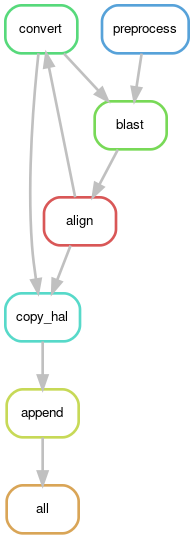
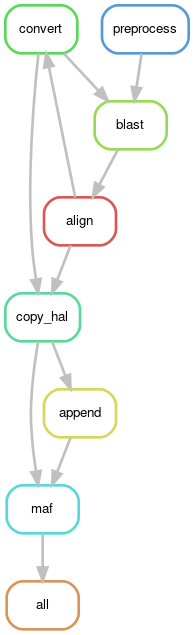
adding info about outputs to cactus tutorial, updating some things about the config file since i added the maf rule

Changed region(s): [[0.0, 0.0, 0.9897, 1.0]]

diff --git a/docs/resources/Tutorials/whole-genome-alignment-cactus.md b/docs/resources/Tutorials/whole-genome-alignment-cactus.md
@@ -92,6 +92,7 @@ To run this pipeline, you will need:
 
 1. A [**rooted**](#3-how-can-i-tell-if-my-input-newick-tree-is-rooted) phylogenetic tree of all species to align, with or without branch lengths, in [Newick format](https://en.wikipedia.org/wiki/Newick_format).
 2. The [**softmasked**](#4-how-can-i-tell-if-my-genome-fasta-files-are-softmasked) genome [FASTA](https://en.wikipedia.org/wiki/FASTA_format) files for each species.
+3. A reference genome to project the alignment to MAF format.
 
 You will use these to create the input file for Cactus.
 
@@ -120,6 +121,9 @@ E   seqdir/e.fa
 
 For more information about the Cactus input file, see their [official documentation](https://github.com/ComparativeGenomicsToolkit/cactus/blob/master/doc/progressive.md#interface). There is also an example input file for a small test dataset [here](https://github.com/harvardinformatics/cactus-snakemake/blob/main/tests/evolverMammals/evolverMammals.txt) or at `tests/evolverMammals/evolverMammals.txt`. For more info, see section: [Test dataset](#test-dataset).
 
+### Reference sample
+
+In order to run the last step of the workflow that converts the HAL format to a readable MAF format (See [pipeline outputs](#pipeline-outputs) for more info), you will need to select one assembly as a reference assembly. The reference assembly's coordinate system will be used for projection to MAF format. You should indicate the reference assembly in the Snakemake config file (outlined below). For instance, if I wanted my reference sample in the above file to be **C**, I would put the string `C` in the `maf_reference:` line of the Snakemake config file.
 
 ### Preparing the Snakemake config file
 
@@ -140,7 +144,9 @@ output_dir: <path/to/desired/output-directory>
 
 overwrite_output_dir: <True/False>
 
-final_hal: <desired name of final .hal file with all genomes appended>
+final_prefix: <desired name of final .hal and .maf files with all genomes appended>
+
+maf_reference: <Genome ID from input_file>
 
 tmp_dir: <path/to/tmp-dir/>
 
@@ -149,15 +155,15 @@ use_gpu: <True/False>
 
 Simply replace the string surrounded by <> with the path or option desired. Below is a table summarizing these options:
 
-| Option               | Description                                                                 |
-|----------------------|-----------------------------------------------------------------------------|
-| `cactus_path`        | Path to the Cactus Singularity image. If blank or 'download', the image of the latest Cactus version will be downloaded and used. |
-| `input_file`         | Path to the input file containing the species tree and genome paths (described above). |
-| `output_dir`         | Directory where the all output will be written. |
+| Option                 | Description                                                                 |
+|----------------------- | ----------------------------------------------------------------------------|
+| `cactus_path`          | Path to the Cactus Singularity image. If blank or 'download', the image of the latest Cactus version will be downloaded and used. |
+| `input_file`           | Path to the input file containing the species tree and genome paths (described above). |
+| `output_dir`           | Directory where the all output will be written. |
 | `overwrite_output_dir` | Whether to overwrite the output directory if it already exists (True/False). |
-| `final_hal`          | The name of the final .hal file with all aligned genomes appended. Will be placed within `output_dir`. |
-| `tmp_dir`            | A temporary directory for Snakemake and Cactus to use. Should have lots of space. |
-| `use_gpu`            | Whether to use the GPU version of Cactus for the alignment (True/False). |
+| `final_prefix`         | The name of the final .hal and .maf files with all aligned genomes appended. The final files will be `<final_prefix>.hal` and `<final_prefix>.maf`. These files will be placed within `output_dir`. |
+| `tmp_dir`              | A temporary directory for Snakemake and Cactus to use. Should have lots of space. |
+| `use_gpu`              | Whether to use the GPU version of Cactus for the alignment (True/False). |
 
 #### Specifying resources for each rule
 
@@ -329,6 +335,14 @@ If this completes without error, run the pipeline by removing the `--dryrun` opt
 ```bash
 snakemake -p -j 10 -e slurm -s ../cactus.smk --configfile evolverMammals-cfg.yaml
 ```
+
+## Pipeline outputs
+
+The pipeline will output a [.paf](https://github.com/lh3/miniasm/blob/master/PAF.md), a [.hal](https://github.com/ComparativeGenomicsToolkit/hal/blob/master/README.md), and a [.fa](https://en.wikipedia.org/wiki/FASTA_format) file for every node in the input tree (including ancestral sequences). The final alignment file will be `<final_prefix>.hal`, where `<final_prefix>` is whatever you specified in the Snakemake config file. 
+
+The final alignment will also be presented in MAF format as `<final_prefix>.<maf_reference>.maf`, again where `<maf_reference>` is whatever you set in the Snakemake config. This file will include all sequences. Another MAF file, `<final_prefix>.<maf_reference>.nodupes.maf` will also be generated, which is the alignment in MAF format with no duplicate sequences. The de-dupplicated MAF file is generated with `--dupeMode single`. See the [Cactus documentation regarding MAF export](https://github.com/ComparativeGenomicsToolkit/cactus/blob/master/doc/progressive.md#maf-export) for more info.
+
+A suit of tools called [HAL tools](https://github.com/ComparativeGenomicsToolkit/Hal) is included with the Cactus singularity image if you need to manipulate or analyze .hal files. There are many tools for manipulating MAF files, though they are not always easy to use. The makers of Cactus also develop [taffy](https://github.com/ComparativeGenomicsToolkit/taffy), which can manipulate MAF files by converting them to TAF files.
 
 ## Questions/troubleshooting
 
